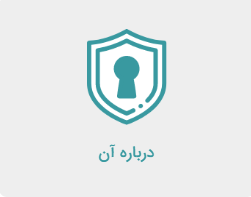
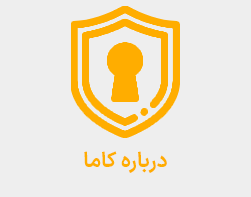
edit color and add comment type

Changed region(s): [[0.2789, 0.0305, 0.7251, 0.7005], [0.3347, 0.731, 0.6693, 0.8832]]

diff --git a/assets/css/public.css b/assets/css/public.css
@@ -24,6 +24,11 @@
     font-weight: normal;
 }
 
+
+.text-kama{
+    color: #ffad00 !important;
+}
+
 body {
     font-family: 'vazir';
 }
@@ -485,7 +490,7 @@ html[data-bs-theme=light] #download-svg {
     /* نمایش متن بالای آیکن */
     left: 50%;
     transform: translateX(-50%);
-    background: #3899a0;
+    background: #ffad00;
     /* رنگ پسزمینه همرنگ آیکن */
     color: black;
     /* رنگ متن مشکی */
@@ -509,7 +514,7 @@ html[data-bs-theme=light] #download-svg {
     height: 0;
     border-left: 6px solid transparent;
     border-right: 6px solid transparent;
-    border-top: 6px solid #3899a0;
+    border-top: 6px solid #ffad00;
     /* همرنگ پسزمینه */
 }
 

diff --git a/assets/js/public.js b/assets/js/public.js
@@ -492,7 +492,7 @@ jQuery(document).ready(function ($) {
                     }
 
                     if (status === "add") {
-                        $(_this).attr('fill', '#3899a0');
+                        $(_this).attr('fill', '#ffad00');
                         $(_this).attr('data-bookmark-status', 'remove');
                         $(_this).closest('div').find("span").html('حذف از لیست نشان شدهها');
                     }

diff --git a/style.css b/style.css
@@ -7,7 +7,7 @@ Description: مجموعه تصویری کامامدیا.
 Requires at least: 6.7
 Tested up to: 6.7
 Requires PHP: 7.2
-Version:  1.3.5
+Version:  1.4.0
 License: GNU General Public License v2 or later
 License URI: http://www.gnu.org/licenses/gpl-2.0.html
 Tags: کامامدیا ,مجموعه تصویری

diff --git a/views/layout/single.php b/views/layout/single.php
@@ -30,7 +30,7 @@
             <div class="video-container mb-3">
 
                 <video id="videoPlayer" class="video-js vjs-default-skin vjs-big-play-centered rounded-3 w-100" controls
-                    poster="<?php echo $episode_data[ 'image' ] ?>" width="100%" height="360" >
+                    poster="<?php echo $episode_data[ 'image' ] ?>" width="100%" height="360">
                 </video>
 
                 <script>
@@ -87,7 +87,7 @@
                         <svg id="post_bookmark" data-bookmark-status="remove"
                             data-post-id="<?php echo $episode_data[ 'id' ] ?>"
                             data-type="<?php echo $episode_data[ 'type' ] ?>" xmlns="http://www.w3.org/2000/svg"
-                            width="25" height="25" viewBox="0 0 24 24" fill="#3899a0" stroke="#3899a0" stroke-width="2"
+                            width="25" height="25" viewBox="0 0 24 24" fill="#ffad00" stroke="#ffad00" stroke-width="2"
                             stroke-linecap="round" stroke-linejoin="round" class="lucide lucide-bookmark">
                             <path d="m19 21-7-4-7 4V5a2 2 0 0 1 2-2h10a2 2 0 0 1 2 2v16z"></path>
                         </svg>
@@ -101,7 +101,7 @@
                         <svg id="post_bookmark" data-bookmark-status="add"
                             data-post-id="<?php echo $episode_data[ 'id' ] ?>"
                             data-type="<?php echo $episode_data[ 'type' ] ?>" xmlns="http://www.w3.org/2000/svg"
-                            width="25" height="25" viewBox="0 0 24 24" fill="none" stroke="#3899a0" stroke-width="2"
+                            width="25" height="25" viewBox="0 0 24 24" fill="none" stroke="#ffad00" stroke-width="2"
                             stroke-linecap="round" stroke-linejoin="round" class="lucide lucide-bookmark">
                             <path d="m19 21-7-4-7 4V5a2 2 0 0 1 2-2h10a2 2 0 0 1 2 2v16z"></path>
                         </svg>
@@ -155,11 +155,11 @@
             <?php if (! empty($episode_cat)): ?>
             <div class="mx-auto p-4 swiper arma-swiper">
                 <!-- عنوان و دکمه "نمایش همه" -->
-                <div class="view-all d-flex justify-content-between align-items-center px-4">
+                <div class="view-all d-flex justify-content-between align-items-center px-4 text-kama py-3">
                     <p class="fw-bold small">بخش های منتخب</p>
-                    <a href="#" class="ms-3 d-none" style="font-size: 13px; color: #3FB1D9; text-decoration: none;">
+                    <a href="#" class="ms-3 d-none" style="font-size: 13px; color: #ffad00 ; text-decoration: none;">
                         نمایش همه
-                        <svg fill="#3FB2DA" height="8px" width="8px" viewBox="0 0 512.005 512.005">
+                        <svg fill="#ffad00 " height="8px" width="8px" viewBox="0 0 512.005 512.005">
                             <path d="M123.586,240.923L358.253,6.256c8.341-8.341,21.824-8.341,30.165,0s8.341,21.824,0,30.165L168.834,256.005
                 l219.584,219.584c8.341,8.341,8.341,21.824,0,30.165c-4.16,4.16-9.621,6.251-15.083,6.251c-5.461,0-10.923-2.091-15.083-6.251
                 L123.586,271.747C115.245,263.406,115.245,249.923,123.586,240.923z">
@@ -202,9 +202,9 @@
                 <div class="view-all d-flex  justify-content-between align-items-center px-4">
                     <p class="fw-bold small">سایر قسمتها</p>
                     <a href="<?php echo $category_link ?>" class="ms-3"
-                        style="font-size: 13px; color: #3FB1D9; text-decoration: none;">
+                        style="font-size: 13px; color: #ffad00 ; text-decoration: none;">
                         نمایش همه
-                        <svg fill="#3FB2DA" height="8px" width="8px" viewBox="0 0 512.005 512.005">
+                        <svg fill="#ffad00 " height="8px" width="8px" viewBox="0 0 512.005 512.005">
                             <path d="M123.586,240.923L358.253,6.256c8.341-8.341,21.824-8.341,30.165,0s8.341,21.824,0,30.165L168.834,256.005
                 l219.584,219.584c8.341,8.341,8.341,21.824,0,30.165c-4.16,4.16-9.621,6.251-15.083,6.251c-5.461,0-10.923-2.091-15.083-6.251
                 L123.586,271.747C115.245,263.406,115.245,249.923,123.586,240.923z">
@@ -295,7 +295,9 @@
                     <div class="d-flex flex-column w-100">
                         <div class="d-flex flex-row justify-content-between align-items-center">
                             <div class="d-flex align-items-center gap-2">
-                                <p><?php echo esc_html($author); ?></p>
+                                <p><?php echo esc_html($author); ?>
+                                    <?php if (absint($comment->user_id) && user_can($comment->user_id, 'manage_options')) {echo "( مدیر سایت )";}?>
+                                </p>
                                 <p><?php echo esc_html($date); ?></p>
                             </div>
                             <?php if (is_user_logged_in()): ?>

diff --git a/header.php b/header.php
@@ -23,9 +23,9 @@
             <!-- Logo -->
             <div class="d-flex">
                 <a href="/" class="navbar-brand d-flex align-items-center">
-                    <img src="<?php echo $arma_option[ 'light-logo' ] ?>" alt="لوگو نسخه روشن"
+                    <img style="height: 45px;" src="<?php echo $arma_option[ 'light-logo' ] ?>" alt="لوگو نسخه روشن"
                         class="rounded me-2 logo-light" id="logo-light">
-                    <img src="<?php echo $arma_option[ 'dark-logo' ] ?>" alt="لوگو نسخه تیره"
+                    <img style="height: 45px;" src="<?php echo $arma_option[ 'dark-logo' ] ?>" alt="لوگو نسخه تیره"
                         class="rounded me-2 logo-dark" id="logo-dark">
                 </a>
                 <!-- Navigation Menu -->
@@ -60,23 +60,20 @@
                 <button id="toggleTheme" class="btn border-0 mx-2">
                     <i id="themeIcon" class="bi bi-sun"></i>
                 </button>
+                <div class="d-none">
                 <!-- متن ورود/ثبت نام اضافه شده -->
                 <?php if (is_user_logged_in()): ?>
                 <a href="/panel" class="ms-4">
-
-
                     <img id="profileImage"
                         src="<?php echo($this_user->user_avatar) ? wp_get_attachment_image_url($this_user->user_avatar) : arma_panel_image('panel/placeHolderUserImage.png') ?>"
                         alt="<?php echo($this_user->display_name) ? $this_user->display_name : 'کاربر جدید' ?>"
                         class="img-fluid rounded-circle mb-2 border border-1"
-                        style="width: 40px; height: 40px; object-fit: cover; border-color: #3899a0 !important;">
-
-
-
+                        style="width: 40px; height: 40px; object-fit: cover; border-color: #ffad00 !important;">
                 </a>
                 <?php else: ?>
                 <a href="/panel" class="ms-4 btn btn-dark">ورود/ثبت نام</a>
                 <?php endif; ?>
+                </div>
             </div>
         </div>
     </header>

diff --git a/includes/ajax.php b/includes/ajax.php
@@ -440,11 +440,14 @@ function arma_admin_view()
 // بررسی لاگین بودن کاربر
 function check_user_login()
 {
-    if (is_user_logged_in()) {
-        wp_send_json_success([ "logged_in" => true ]);
-    } else {
-        wp_send_json_success([ "logged_in" => false ]);
-    }
+
+    
+    wp_send_json_success([ "logged_in" => true ]);
+    // if (is_user_logged_in()) {
+    //     wp_send_json_success([ "logged_in" => true ]);
+    // } else {
+    //     wp_send_json_success([ "logged_in" => false ]);
+    // }
 }
 add_action("wp_ajax_check_user_login", "check_user_login");
 add_action("wp_ajax_nopriv_check_user_login", "check_user_login");
@@ -456,11 +459,7 @@ function submit_comment()
         wp_send_json_error([ "message" => "مشکل امنیتی رخ داده است." ]);
     }
 
-    if (! is_user_logged_in()) {
-        wp_send_json_error([ "message" => "شما باید وارد شوید!" ]);
-    }
-
-    $user_id = get_current_user_id();
+  
     $comment = sanitize_text_field($_POST[ "comment" ]);
     $post_id = intval($_POST[ "post_id" ]);
 
@@ -470,12 +469,15 @@ function submit_comment()
 
     $comment_data = [
         "comment_post_ID"      => $post_id,
-        "comment_author"       => wp_get_current_user()->display_name,
-        "comment_author_email" => wp_get_current_user()->user_email,
+        "comment_author"       => is_user_logged_in() ? wp_get_current_user()->display_name : "مهمان",
+        "comment_author_email" => is_user_logged_in() ? wp_get_current_user()->user_email : microtime()."@example.com",
         "comment_content"      => $comment,
-        "user_id"              => $user_id,
-        "comment_approved"     => 1, // اگر بخوای تایید خودکار بشه
+        "comment_approved"     => 0, // اگر بخوای تایید خودکار بشه
      ];
+
+     if (is_user_logged_in()) {
+        $comment_data['user_id'] = get_current_user_id();
+    }
 
     $comment_id = wp_insert_comment($comment_data);
 

diff --git a/views/layout/taxonomy.php b/views/layout/taxonomy.php
@@ -16,7 +16,7 @@
                 <div class="d-flex align-items-center bookmark-container">
                     <svg id="post_bookmark" data-bookmark-status="remove" data-post-id="<?php echo $term_id ?>"
                         data-type="<?php echo $term_type ?>" xmlns="http://www.w3.org/2000/svg" width="25" height="25"
-                        viewBox="0 0 24 24" fill="#3899a0" stroke="#3899a0" stroke-width="2" stroke-linecap="round"
+                        viewBox="0 0 24 24" fill="#ffad00" stroke="#ffad00" stroke-width="2" stroke-linecap="round"
                         stroke-linejoin="round" class="lucide lucide-bookmark">
                         <path d="m19 21-7-4-7 4V5a2 2 0 0 1 2-2h10a2 2 0 0 1 2 2v16z"></path>
                     </svg>
@@ -29,7 +29,7 @@
                 <div class="d-flex align-items-center bookmark-container">
                     <svg id="post_bookmark" data-bookmark-status="add" data-post-id="<?php echo $term_id ?>"
                         data-type="<?php echo $term_type ?>" xmlns="http://www.w3.org/2000/svg" width="25" height="25"
-                        viewBox="0 0 24 24" fill="none" stroke="#3899a0" stroke-width="2" stroke-linecap="round"
+                        viewBox="0 0 24 24" fill="none" stroke="#ffad00" stroke-width="2" stroke-linecap="round"
                         stroke-linejoin="round" class="lucide lucide-bookmark">
                         <path d="m19 21-7-4-7 4V5a2 2 0 0 1 2-2h10a2 2 0 0 1 2 2v16z"></path>
                     </svg>

diff --git a/views/layout/panel/dashboard.php b/views/layout/panel/dashboard.php
@@ -70,7 +70,7 @@
                     <img src="<?php echo($this_user->user_avatar) ? wp_get_attachment_image_url($this_user->user_avatar) : arma_panel_image('panel/placeHolderUserImage.png') ?>"
                         alt="<?php echo($this_user->display_name) ? $this_user->display_name : 'کاربر جدید' ?>"
                         class="img-fluid rounded-circle mb-2 border border-5"
-                        style="width: 100px; height: 100px; object-fit: cover; border-color: #3899a0 !important;">
+                        style="width: 100px; height: 100px; object-fit: cover; border-color: #ffad00 !important;">
 
                     <h5 class="mt-2 text-white">
                         <?php echo($this_user->display_name != $this_user->user_login) ? $this_user->display_name : 'کاربر جدید' ?></h5>
@@ -98,7 +98,7 @@
                         نشان شده&zwnj;ها
                     </a>
                     <a href="<?php echo arma_base_url('mobile') ?>"
-                        class="list-group-item border-0 list-group-item-action d-flex align-items-center"
+                        class="list-group-item border-0 list-group-item-action d-flex align-items-center d-none"
                         style="background-color: #171717; color: white;">
                         <i class="bi bi-phone me-2"></i>
                         تغییر شماره موبایل

diff --git a/views/layout/panel/edit-profile.php b/views/layout/panel/edit-profile.php
@@ -16,7 +16,7 @@
                         src="<?php echo($this_user->user_avatar) ? wp_get_attachment_image_url($this_user->user_avatar) : arma_panel_image('panel/placeHolderUserImage.png') ?>"
                         alt="<?php echo($this_user->display_name) ? $this_user->display_name : 'کاربر جدید' ?>"
                         class="img-fluid rounded-circle mb-2 border border-5"
-                        style="width: 100px; height: 100px; object-fit: cover; border-color: #3899a0 !important;">
+                        style="width: 100px; height: 100px; object-fit: cover; border-color: #ffad00 !important;">
 
 
 
@@ -66,7 +66,7 @@
                 <div class="row mt-4">
                     <div class="col-6">
                         <button class="btn w-100" name="act" value="submit_profile"
-                            style="background-color: #3899A0; border-radius: 5px; color: white;">تایید</button>
+                            style="background-color: #ffad00; border-radius: 5px; color: white;">تایید</button>
                     </div>
                     <div class="col-6">
                         <button class="btn w-100 btn-secondary" style="border-radius: 5px;">بازگشت</button>

diff --git a/views/layout/home/list_category.php b/views/layout/home/list_category.php
@@ -1,10 +1,10 @@
 <div class="d-flex flex-column g-1 mx-auto p-4 gx-2 gy-0">
        <!-- عنوان و دکمه "نمایش همه" -->
-       <div class="view-all d-flex justify-content-between align-items-center px-4">
+       <div class="view-all d-flex justify-content-between align-items-center px-4 text-kama py-3">
         <h5 style="font-size: 20px;" class="fw-bold"><?php echo trim($row[ 'title' ]) ?></h5>
-        <a href="/oncat/" class="ms-3" style="font-size: 13px; color: #3FB1D9; text-decoration: none;">
+        <a href="/oncat/" class="ms-3" style="font-size: 13px; color: #ffad00 ; text-decoration: none;">
             نمایش همه
-            <svg fill="#3FB2DA" height="8px" width="8px" viewBox="0 0 512.005 512.005">
+            <svg fill="#ffad00 " height="8px" width="8px" viewBox="0 0 512.005 512.005">
                 <path d="M123.586,240.923L358.253,6.256c8.341-8.341,21.824-8.341,30.165,0s8.341,21.824,0,30.165L168.834,256.005
                 l219.584,219.584c8.341,8.341,8.341,21.824,0,30.165c-4.16,4.16-9.621,6.251-15.083,6.251c-5.461,0-10.923-2.091-15.083-6.251
                 L123.586,271.747C115.245,263.406,115.245,249.923,123.586,240.923z">

diff --git a/views/layout/home/category.php b/views/layout/home/category.php
@@ -28,11 +28,11 @@
 ?>
 
 <div class="mx-auto p-4 swiper arma-swiper">
-    <div class="view-all d-flex justify-content-between align-items-center px-4">
+    <div class="view-all d-flex justify-content-between align-items-center px-4 text-kama py-3">
         <h5 style="font-size: 20px;" class="fw-bold"><?php echo trim($row[ 'title' ]) ?></h5>
-        <a href="<?=$term_link?>" class="ms-3" style="font-size: 13px; color: #3FB1D9; text-decoration: none;">
+        <a href="<?=$term_link?>" class="ms-3" style="font-size: 13px; color: #ffad00 ; text-decoration: none;">
             نمایش همه
-            <svg fill="#3FB2DA" height="8px" width="8px" viewBox="0 0 512.005 512.005">
+            <svg fill="#ffad00 " height="8px" width="8px" viewBox="0 0 512.005 512.005">
                 <path d="M123.586,240.923L358.253,6.256c8.341-8.341,21.824-8.341,30.165,0s8.341,21.824,0,30.165L168.834,256.005
                 l219.584,219.584c8.341,8.341,8.341,21.824,0,30.165c-4.16,4.16-9.621,6.251-15.083,6.251c-5.461,0-10.923-2.091-15.083-6.251
                 L123.586,271.747C115.245,263.406,115.245,249.923,123.586,240.923z">

diff --git a/episode.php b/episode.php
@@ -29,7 +29,7 @@ if (have_posts()):
         'title'           => get_the_title(),
         'permalink'       => get_permalink(),
         'excerpt'         => get_the_excerpt(),
-        'content'         => get_the_content(),
+        'content'         => nl2br(get_the_content()),
         'image'           => (has_post_thumbnail()) ? get_the_post_thumbnail_url($current_post_id, 'full') : '',
         'categories'      => wp_get_post_terms($current_post_id, 'on_category', [ 'fields' => 'names' ]),
         'date'            => tarikh(get_the_date('Y-m-d')),
@@ -40,6 +40,10 @@ if (have_posts()):
         'colleagues'      => get_post_meta($current_post_id, '_arma_colleagues', true),
         'type'            => get_post_type($current_post_id),
      ];
+
+
+
+
 
     $term_id       = $categories[ 0 ]->term_id; // آیدی دسته
     $term_name     = $categories[ 0 ]->name;    // نام دسته
